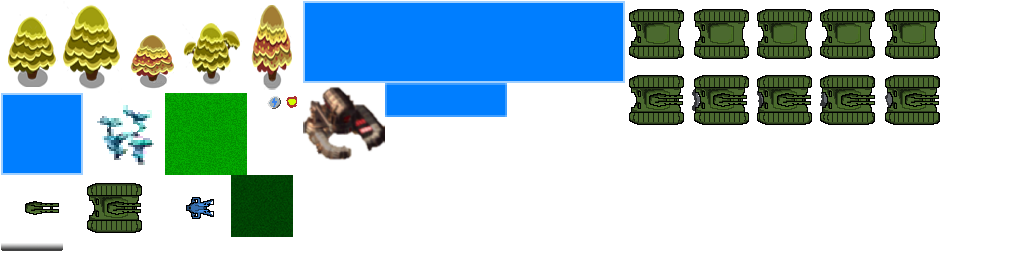
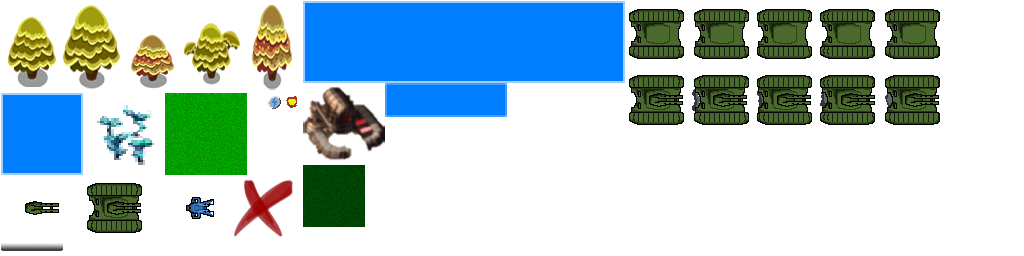
ДЗ 8. Подправил GuiInfo, добавил GuiAiInfo. Добавил текстура входа.

Changed region(s): [[0.2188, 0.625, 0.375, 0.9375]]

diff --git a/core/src/com/dune/game/core/GameController.java b/core/src/com/dune/game/core/GameController.java
@@ -15,6 +15,7 @@ import com.dune.game.core.controllers.BuildingsController;
 import com.dune.game.core.controllers.ParticleController;
 import com.dune.game.core.controllers.ProjectilesController;
 import com.dune.game.core.controllers.UnitsController;
+import com.dune.game.core.gui.GuiAiInfo;
 import com.dune.game.core.gui.GuiPlayerInfo;
 import com.dune.game.core.units.AbstractUnit;
 import com.dune.game.core.users_logic.AiLogic;
@@ -31,6 +32,7 @@ public class GameController {
 
     private BattleMap map;
     private GuiPlayerInfo guiPlayerInfo;
+    private GuiAiInfo guiAiInfo;
     private PlayerLogic playerLogic;
     private AiLogic aiLogic;
     private ProjectilesController projectilesController;
@@ -45,6 +47,7 @@ public class GameController {
     private Vector2 pointOfView;
     private float worldTimer;
     private boolean paused;
+
 
 //    private Music music;
 //    private Sound sound;
@@ -158,6 +161,7 @@ public class GameController {
 //                    0.3f, 1.4f, 1, 1, 0, 1, 1, 0, 0, 0.5f);
 //        }
             guiPlayerInfo.update(dt);
+            guiAiInfo.update(dt);
         }
         ScreenManager.getInstance().resetCamera();
         stage.act(dt);
@@ -267,26 +271,31 @@ public class GameController {
             }
         });
 
-        final TextButton testBtn = new TextButton("Test", textButtonStyle);
-        testBtn.addListener(new ClickListener() {
-            @Override
-            public void clicked(InputEvent event, float x, float y) {
-                System.out.println("Test");
-                ;
-            }
-        });
+//        final TextButton testBtn = new TextButton("Pause", textButtonStyle);
+//        testBtn.addListener(new ClickListener() {
+//            @Override
+//            public void clicked(InputEvent event, float x, float y) {
+//                System.out.println("Pause");
+//                ;
+//            }
+//        });
         Group menuGroup = new Group();
         menuBtn.setPosition(0, 0);
-        testBtn.setPosition(130, 0);
+//        testBtn.setPosition(130, 0);
         menuGroup.addActor(menuBtn);
-        menuGroup.addActor(testBtn);
-        menuGroup.setPosition(900, 680);
+//        menuGroup.addActor(testBtn);
+        menuGroup.setPosition(1100, 10);
 
         Label.LabelStyle labelStyle = new Label.LabelStyle(font14, Color.WHITE);
+        Label.LabelStyle labelStyle2 = new Label.LabelStyle(font14, Color.RED);
         skin.add("simpleLabel", labelStyle);
+        skin.add("redLabel", labelStyle2);
 
         guiPlayerInfo = new GuiPlayerInfo(playerLogic, skin);
         guiPlayerInfo.setPosition(0, 700);
+        guiAiInfo = new GuiAiInfo (aiLogic, skin);
+        guiAiInfo.setPosition(900, 700);
+        stage.addActor(guiAiInfo);
         stage.addActor(guiPlayerInfo);
         stage.addActor(menuGroup);
         skin.dispose();

diff --git a/core/src/com/dune/game/core/Building.java b/core/src/com/dune/game/core/Building.java
@@ -4,10 +4,13 @@ import com.badlogic.gdx.graphics.g2d.SpriteBatch;
 import com.badlogic.gdx.graphics.g2d.TextureRegion;
 import com.badlogic.gdx.math.Vector2;
 import com.dune.game.core.interfaces.Poolable;
+import com.dune.game.core.interfaces.Targetable;
+import com.dune.game.core.units.types.TargetType;
 import com.dune.game.core.users_logic.BaseLogic;
 import com.dune.game.screens.utils.Assets;
 
-public class Building extends GameObject implements Poolable {
+public class Building extends GameObject implements Poolable, Targetable {
+
     public enum Type {
         STOCK
     }
@@ -16,8 +19,10 @@ public class Building extends GameObject implements Poolable {
     // * P *
     //   E
     private BaseLogic ownerLogic;
-    private Type type;
+    private Type typeBuilding;
     private TextureRegion texture;
+    private TextureRegion textureEntrance;
+
     private Vector2 textureWorldPosition;
     private int hpMax;
     private int hp;
@@ -28,8 +33,13 @@ public class Building extends GameObject implements Poolable {
         return hp > 0;
     }
 
-    public Type getType() {
-        return type;
+    @Override
+    public TargetType getType() {
+        return TargetType.BUILDING;
+    }
+
+    public Type getTypeBuilding() {
+        return typeBuilding;
     }
 
     public BaseLogic getOwnerLogic() {
@@ -39,6 +49,7 @@ public class Building extends GameObject implements Poolable {
     public Building(GameController gc) {
         super(gc);
         this.texture = Assets.getInstance().getAtlas().findRegion("base");
+        this.textureEntrance = Assets.getInstance().getAtlas().findRegion("entrance");
         this.textureWorldPosition = new Vector2();
     }
 
@@ -50,7 +61,7 @@ public class Building extends GameObject implements Poolable {
         this.hpMax = 1000;
         this.hp = this.hpMax;
         this.textureWorldPosition.set((cellX - 1) * BattleMap.CELL_SIZE, cellY * BattleMap.CELL_SIZE);
-        this.type = Type.STOCK;
+        this.typeBuilding = Type.STOCK;
         for (int i = cellX - 1; i <= cellX + 1; i++) {
             for (int j = cellY; j <= cellY + 1; j++) {
                 gc.getMap().blockGroundCell(i, j);
@@ -65,7 +76,7 @@ public class Building extends GameObject implements Poolable {
     public void render(SpriteBatch batch) {
         batch.draw(texture, textureWorldPosition.x, textureWorldPosition.y, BattleMap.CELL_SIZE *2, BattleMap.CELL_SIZE * 2);
         batch.setColor(0.5f, 0.2f, 0.2f, 0.8f);
-        batch.draw(texture, textureWorldPosition.x + BattleMap.CELL_SIZE, textureWorldPosition.y - BattleMap.CELL_SIZE, BattleMap.CELL_SIZE, BattleMap.CELL_SIZE);
+        batch.draw(textureEntrance, textureWorldPosition.x + BattleMap.CELL_SIZE, textureWorldPosition.y - BattleMap.CELL_SIZE, BattleMap.CELL_SIZE, BattleMap.CELL_SIZE);
         batch.setColor(1, 1, 1, 1);
     }
 

diff --git a/core/src/com/dune/game/core/gui/GuiAiInfo.java b/core/src/com/dune/game/core/gui/GuiAiInfo.java
@@ -1,26 +1,27 @@
 package com.dune.game.core.gui;
 
 
+
 import com.badlogic.gdx.scenes.scene2d.Group;
 import com.badlogic.gdx.scenes.scene2d.ui.Label;
 import com.badlogic.gdx.scenes.scene2d.ui.Skin;
 import com.badlogic.gdx.utils.StringBuilder;
-import com.dune.game.core.users_logic.PlayerLogic;
+import com.dune.game.core.users_logic.AiLogic;
 
-public class GuiPlayerInfo extends Group {
-    private PlayerLogic playerLogic;
+public class GuiAiInfo extends Group {
+    private AiLogic aiLogic;
     private Label money;
     private Label unitsCount;
     private StringBuilder tmpSB;
     private Label name;
 
-    public GuiPlayerInfo(PlayerLogic playerLogic, Skin skin) {
-        this.playerLogic = playerLogic;
+    public GuiAiInfo(AiLogic aiLogic, Skin skin) {
+        this.aiLogic = aiLogic;
         this.money = new Label("", skin, "simpleLabel");
-        this.name = new Label("", skin, "redLabel");
         this.unitsCount = new Label("", skin, "simpleLabel");
+        this.name = new Label("", skin, "redLabel");
         this.money.setPosition(10, 10);
-        this.name.setPosition(140, 10);
+        this.name.setPosition(160, 10);
         this.unitsCount.setPosition(210, 10);
         this.addActor(money);
         this.addActor(name);
@@ -30,11 +31,11 @@ public class GuiPlayerInfo extends Group {
 
     public void update(float dt) {
         tmpSB.clear();
-        name.setText ("PLAYER");
-        tmpSB.append("MINERALS: ").append(playerLogic.getMoney());
+        name.setText ("AI");
+        tmpSB.append("MINERALS: ").append(aiLogic.getMoney());
         money.setText(tmpSB);
         tmpSB.clear();
-        tmpSB.append("UNITS: ").append(playerLogic.getUnitsCount()).append(" / ").append(playerLogic.getUnitsMaxCount());
+        tmpSB.append("UNITS: ").append(aiLogic.getUnitsCount()).append(" / ").append(aiLogic.getUnitsMaxCount());
         unitsCount.setText(tmpSB);
     }
 }

diff --git a/core/src/com/dune/game/core/users_logic/AiLogic.java b/core/src/com/dune/game/core/users_logic/AiLogic.java
@@ -13,17 +13,15 @@ import java.util.ArrayList;
 import java.util.List;
 
 public class AiLogic extends BaseLogic {
-    private float timer;
 
     private List<BattleTank> tmpAiBattleTanks;
     private List<Harvester> tmpPlayerHarvesters;
-    private List<Harvester> tmpPlayerBattleTanks;
+    private List<BattleTank> tmpPlayerBattleTanks;
     private List<Harvester> tmpAiHarvesters;
 
     public AiLogic(GameController gc) {
         this.gc = gc;
         this.money = 1000;
-        this.unitsCount = 10;
         this.unitsMaxCount = 100;
         this.ownerType = Owner.AI;
         this.tmpAiBattleTanks = new ArrayList<>();
@@ -34,7 +32,8 @@ public class AiLogic extends BaseLogic {
     }
 
     public void update(float dt) {
-        timer += dt;
+        this.timer += dt;
+        this.unitsCount = gc.getUnitsController().getAiUnits().size ();
         if (timer > 2.0f) {
             timer = 0.0f;
             gc.getUnitsController().collectTanks(tmpAiBattleTanks, gc.getUnitsController().getAiUnits(), UnitType.BATTLE_TANK);

diff --git a/core/src/com/dune/game/core/users_logic/PlayerLogic.java b/core/src/com/dune/game/core/users_logic/PlayerLogic.java
@@ -11,12 +11,12 @@ public class PlayerLogic extends BaseLogic {
     public PlayerLogic(GameController gc) {
         this.gc = gc;
         this.money = 1000;
-        this.unitsCount = 10;
         this.unitsMaxCount = 100;
         this.ownerType = Owner.PLAYER;
     }
 
     public void update(float dt) {
+        this.unitsCount = gc.getUnitsController ().getPlayerUnits ().size ();
         if (Gdx.input.isButtonPressed(Input.Buttons.RIGHT)) {
             for (int i = 0; i < gc.getSelectedUnits().size(); i++) {
                 AbstractUnit u = gc.getSelectedUnits().get(i);

diff --git a/core/src/com/dune/game/core/units/Harvester.java b/core/src/com/dune/game/core/units/Harvester.java
@@ -69,7 +69,7 @@ public class Harvester extends AbstractUnit {
     public void update(float dt) {
         super.update(dt);
         Building b = gc.getMap().getBuildingEntrance(getCellX(), getCellY());
-        if (b != null && b.getType() == Building.Type.STOCK && b.getOwnerLogic() == this.baseLogic) {
+        if (b != null && b.getTypeBuilding () == Building.Type.STOCK && b.getOwnerLogic() == this.baseLogic) {
             baseLogic.addMoney(container * 100);
             container = 0;
         }

diff --git a/core/src/com/dune/game/core/units/AbstractUnit.java b/core/src/com/dune/game/core/units/AbstractUnit.java
@@ -131,6 +131,7 @@ public abstract class AbstractUnit extends GameObject implements Poolable, Targe
             if ((position.dst(destination) < 120.0f && Math.abs(angleTo - angle) > 10) || !gc.getMap().isCellGroundPassable(position)) {
                 position.mulAdd(tmp, -dt);
             }
+
         }
         updateWeapon(dt);
         checkBounds();

diff --git a/core/src/com/dune/game/core/GameObject.java b/core/src/com/dune/game/core/GameObject.java
@@ -6,6 +6,7 @@ public abstract class GameObject {
     protected GameController gc;
     protected Vector2 position;
     protected Vector2 tmp;
+    protected float tmpDestination;
 
     public Vector2 getPosition() {
         return position;

diff --git a/core/src/com/dune/game/core/users_logic/BaseLogic.java b/core/src/com/dune/game/core/users_logic/BaseLogic.java
@@ -9,6 +9,7 @@ public class BaseLogic {
     protected int money;
     protected int unitsCount;
     protected int unitsMaxCount;
+    protected float timer;
 
     public void addMoney(int amount) {
         this.money += amount;

diff --git a/core/src/com/dune/game/core/units/types/TargetType.java b/core/src/com/dune/game/core/units/types/TargetType.java
@@ -1,5 +1,5 @@
 package com.dune.game.core.units.types;
 
 public enum TargetType {
-    UNIT, RESOURCE
+    UNIT, RESOURCE,BUILDING
 }
